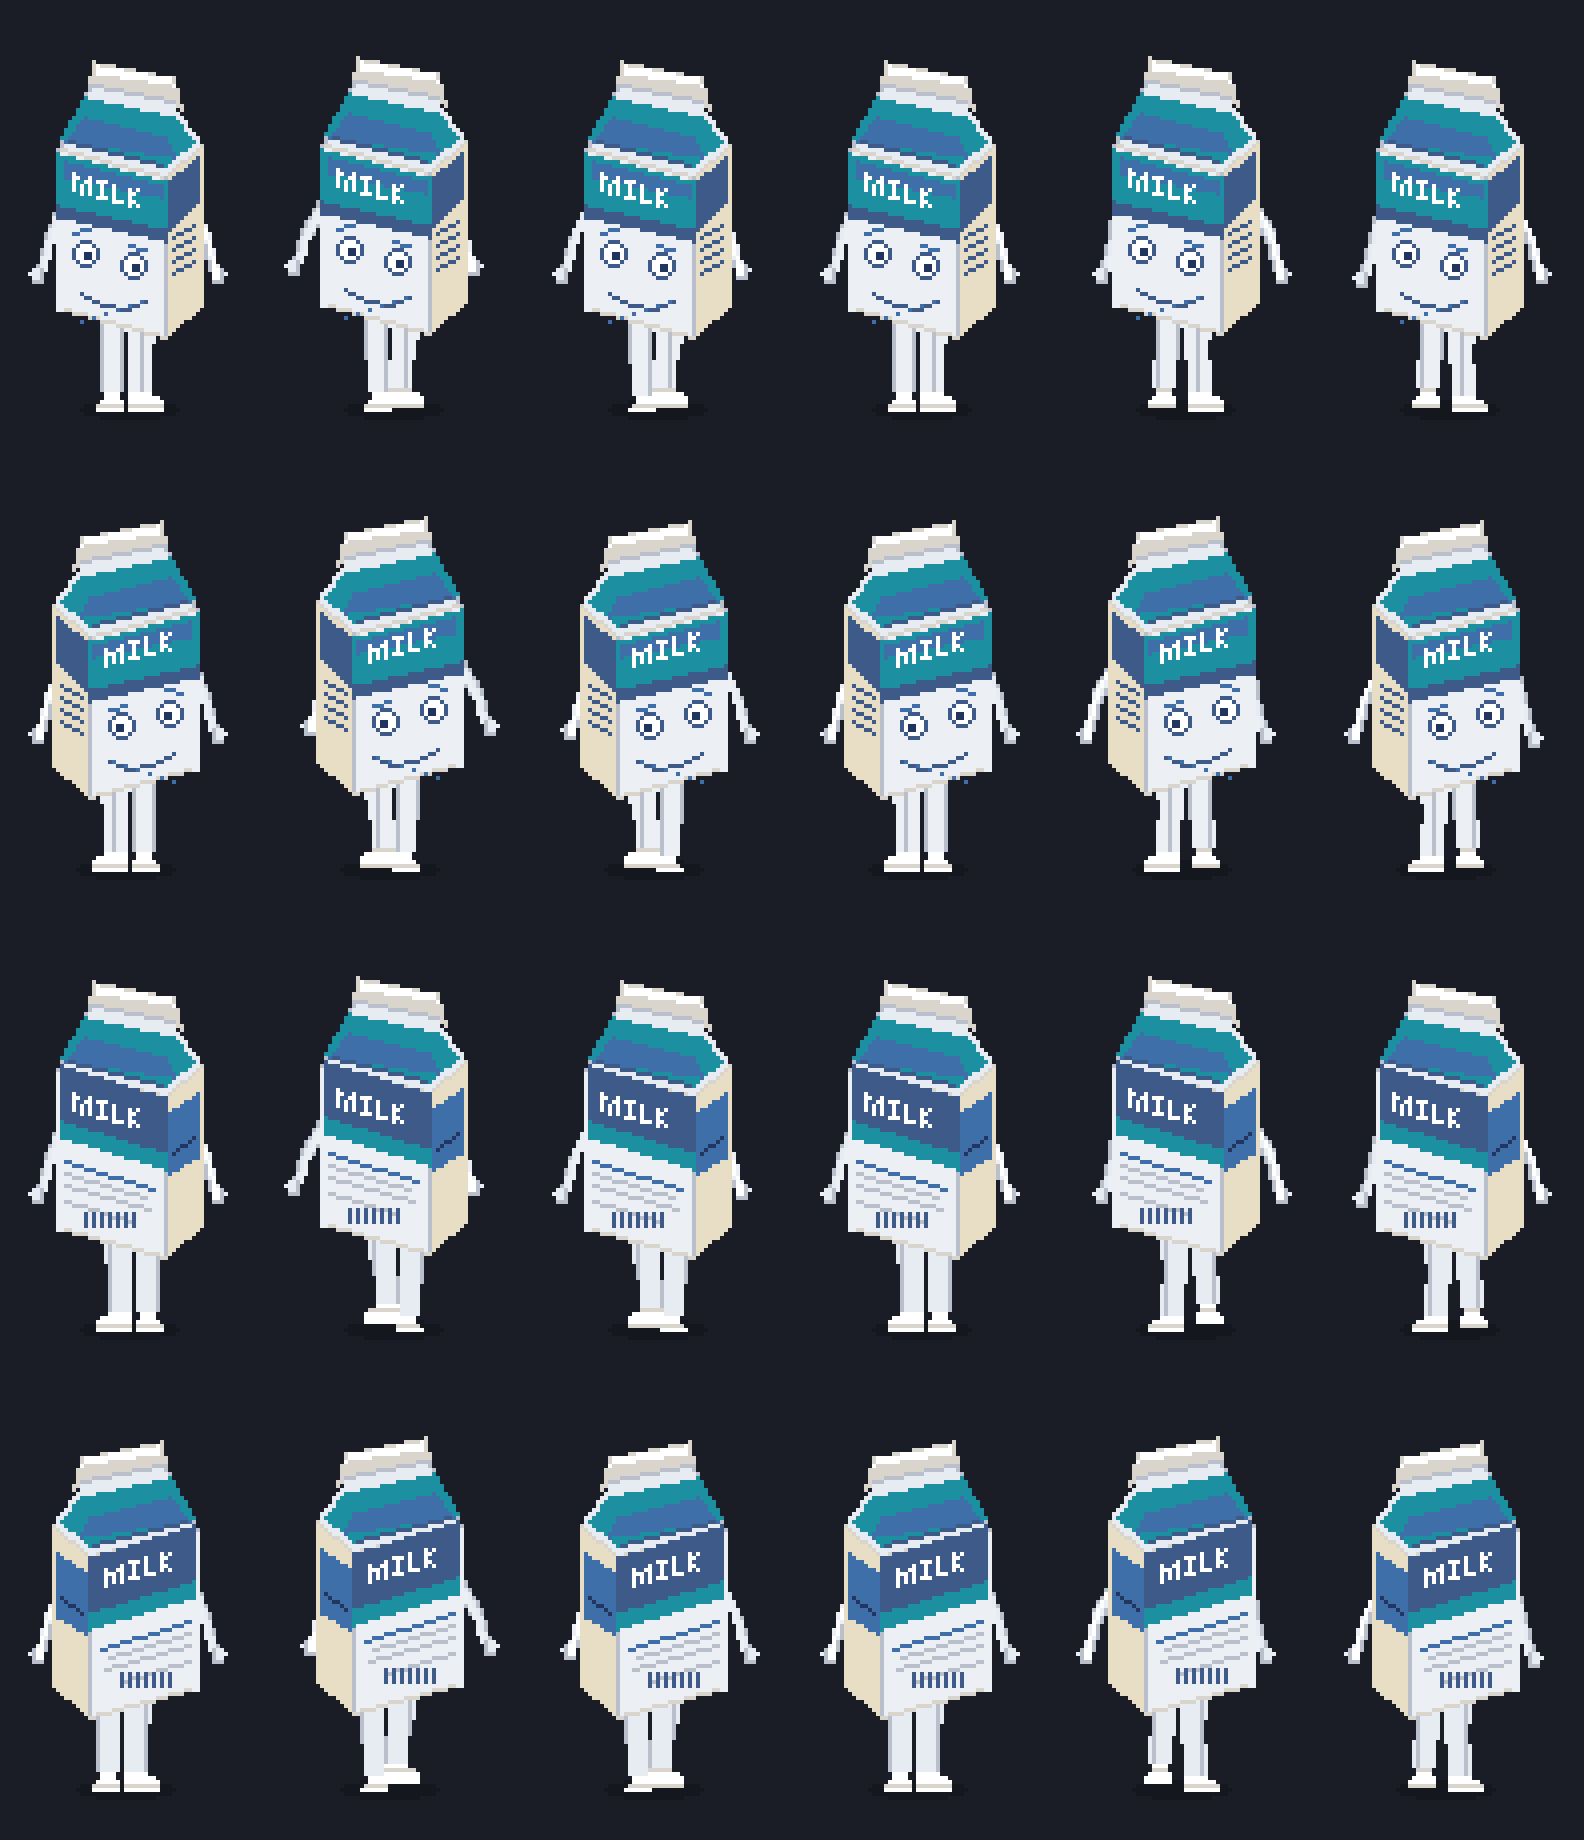
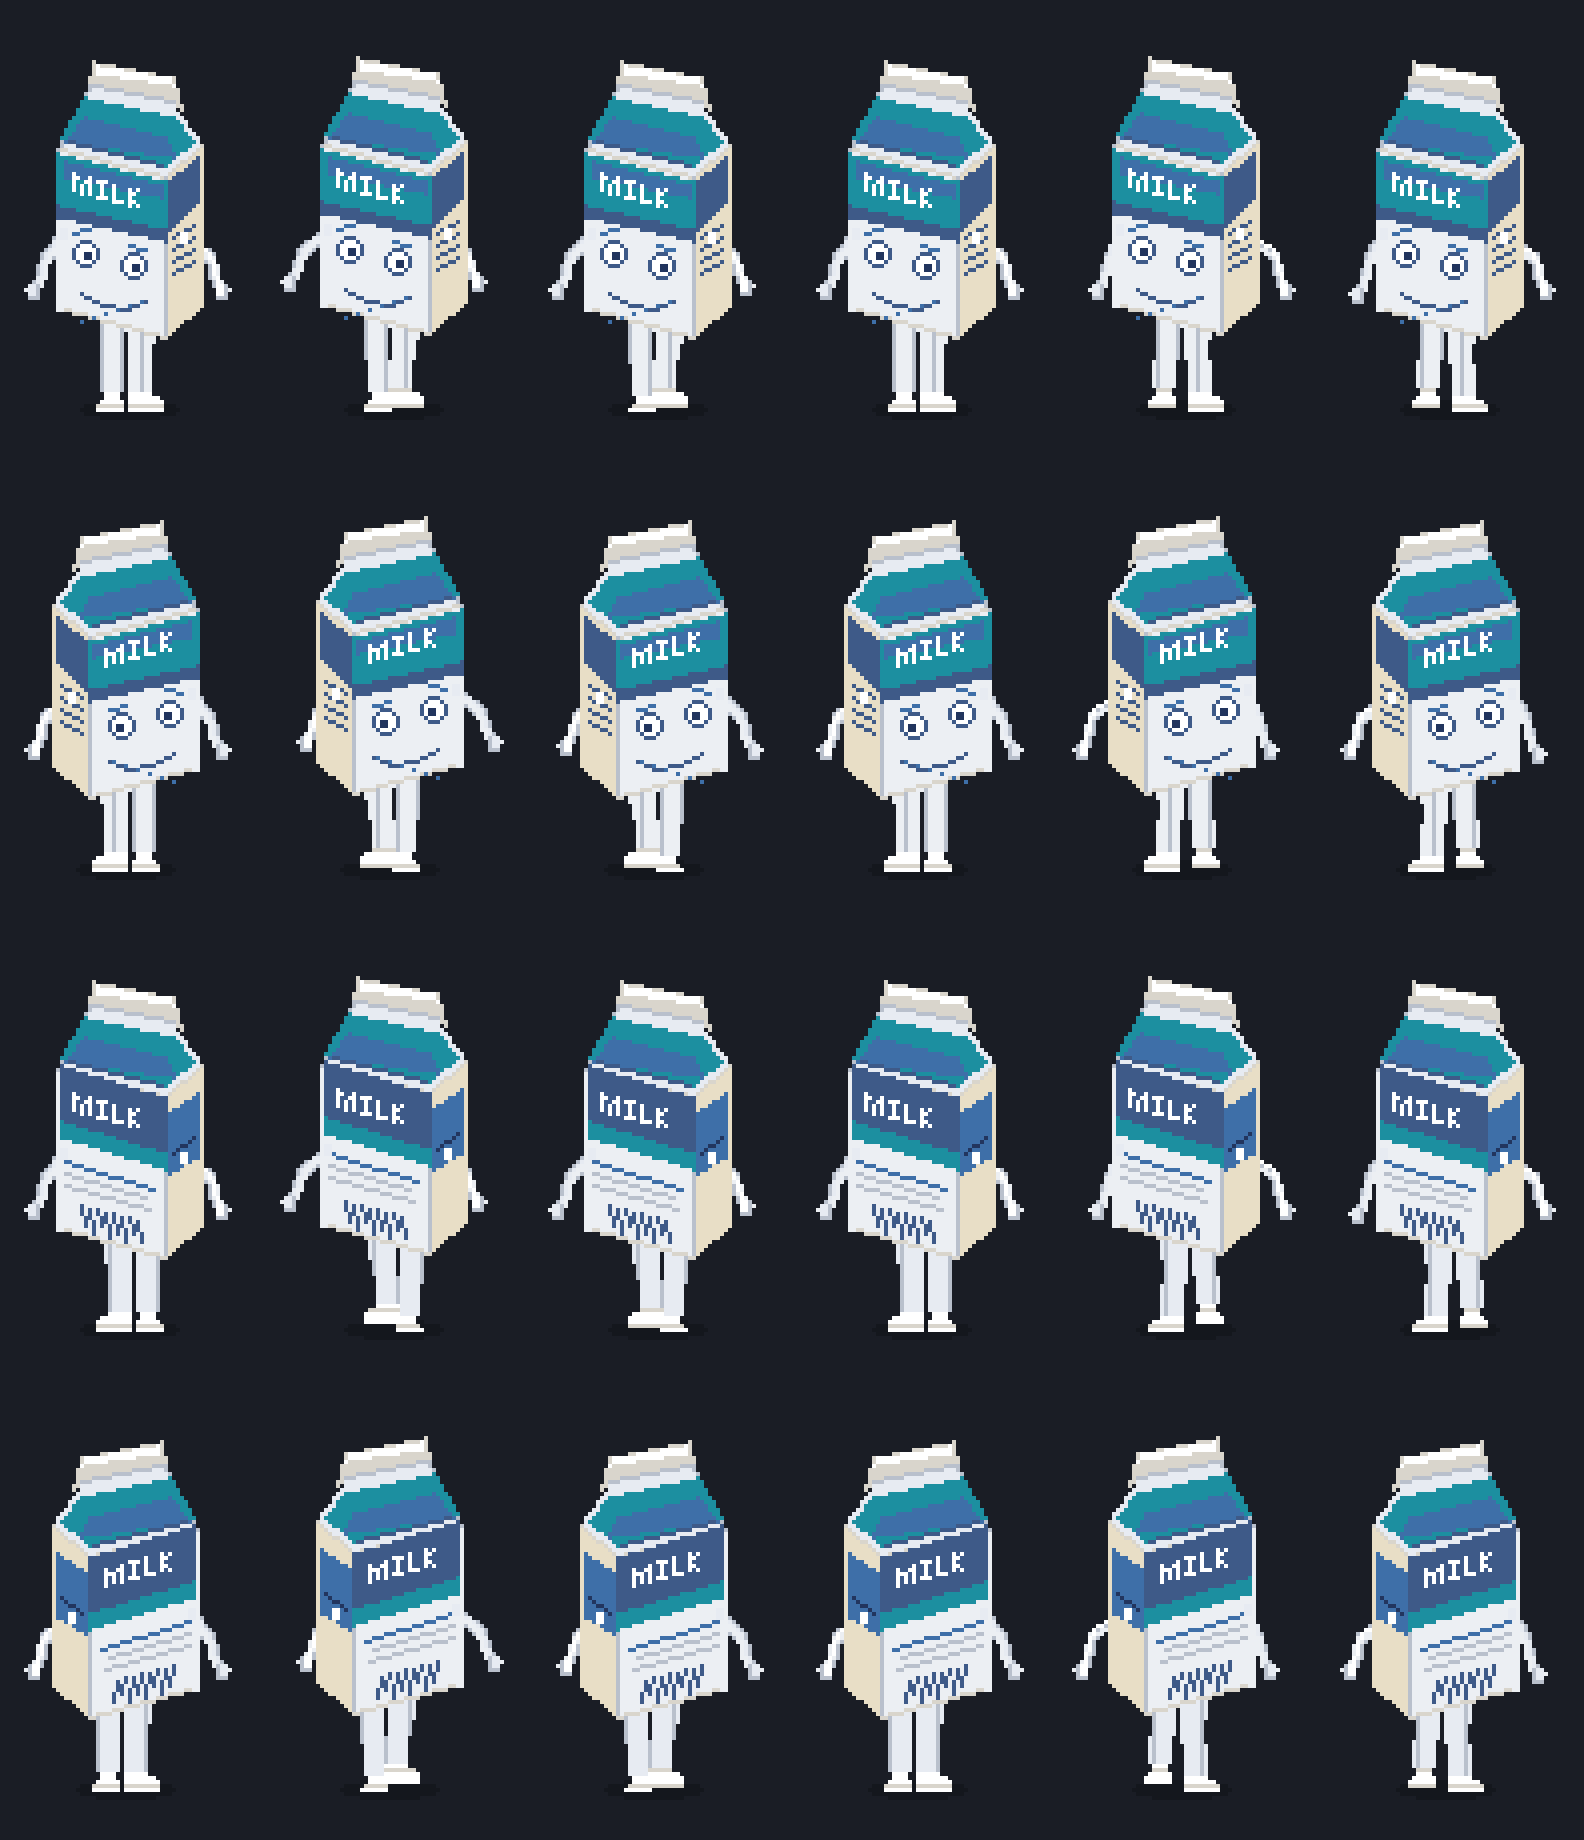
Align Milk Mascot arms to side midpoint and skew rear barcode
Preserve native v6b 4-direction walk and sprite sheet. Move arms to mid-body carton side and draw slender seams; barcode now follows projected panel slope. Verified sprites and previews stored permanently.

diff --git a/assets/npc_milk_mascot/src/make_milk_mascot.py b/assets/npc_milk_mascot/src/make_milk_mascot.py
@@ -102,29 +102,47 @@ def capsule(draw, points, light, mid, shade):
 
 
 def draw_arms(layer, view, t, bob, kind):
+    """Slim human-scale sleeves attached at the SIDE MIDPOINT of carton.
+
+    The broad front is x14..41, narrow side is x41..50. Shoulder anchors
+    sit at y56 (mid-height of the flat carton walls), not on the rear/top
+    fold at y49. The far shoulder is hidden by the box; elbow + hand remain
+    visible, with an explicit 2px side seam applied after compositing.
+    """
     d = ImageDraw.Draw(layer)
-    # Reduced from 6px arm / 7px glove to 3px sleeve / ~4px glove.
-    # Shorter forearms: a simple human-costume silhouette, not oversized mitts.
     swing = [0, 2, 1, 0, -2, -1][t % 6] if kind == "walk" else 0
     for left in (True, False):
         s = swing if left else -swing
         if left:
-            shoulder = (15, 49 + bob)
-            elbow = (12 - s, 57 + bob)
-            wrist = (10 - s, 65 + bob - s // 2)
-            hx, hy = 9 - s, 67 + bob - s // 2
+            shoulder = (16, 56 + bob)
+            elbow = (11 - s, 62 + bob)
+            wrist = (9 - s, 69 + bob - s // 2)
+            hx, hy = (8 - s, 71 + bob - s // 2)
             light = LIT
         else:
-            shoulder = (48, 49 + bob)
-            elbow = (51 + s, 57 + bob)
-            wrist = (53 + s, 65 + bob + s // 2)
-            hx, hy = 54 + s, 67 + bob + s // 2
+            # Midpoint of x41..50 side plane, not the far x50 corner.
+            shoulder = (45, 57 + bob)
+            elbow = (52 + s, 62 + bob)
+            wrist = (54 + s, 69 + bob + s // 2)
+            hx, hy = (55 + s, 71 + bob + s // 2)
             light = WHITE
         capsule(d, [shoulder, elbow, wrist], light, PAPER, GREY)
         d.rectangle((hx - 1, hy - 2, hx + 1, hy + 1), fill=GREY)
         d.rectangle((hx - 1, hy - 2, hx, hy), fill=light)
-        # One-pixel thumb detail; no bulky hand/finger blob.
         d.point((hx - 2 if left else hx + 2, hy - 1), fill=PAPER)
+
+
+def paint_attachments(frame, bob):
+    """Expose narrow sleeve cuffs *on top* of the carton at side midpoints.
+
+    Without this, the carton conceals the arm's first pixels and it looks
+    as if the arms originate on the rear of the box. These 2px seams are
+    only a connection joint, not additional large arms.
+    """
+    d = ImageDraw.Draw(frame)
+    # Near corner on face and midpoint of the narrow right-hand side face.
+    d.line([(15, 55 + bob), (15, 57 + bob)], fill=LIT, width=2)
+    d.line([(45, 56 + bob), (45, 58 + bob)], fill=WHITE, width=2)
 
 def draw_native_legs(layer, rig, base, kind, frame, view):
     C, O = rig
@@ -186,10 +204,16 @@ def draw_carton(layer, rear, bob, expression="neutral", show_label=True):
         line([(16, 58 + bob), (38, 65 + bob)], BLUE, 1)
         line([(16, 61 + bob), (36, 67 + bob)], GREY, 1)
         line([(16, 64 + bob), (37, 70 + bob)], GREY, 1)
-        line([(16, 68 + bob), (33, 73 + bob)], GREY, 1)
-        # Bar code: sparse readable stripes, 1× pixel strokes.
-        for x in range(21, 34, 2):
-            d.line([(x, 71 + bob), (x, 74 + bob)], fill=BLUE_DARK)
+        # Barcode quiet zone deliberately clear of information lines.
+        # The broad back carton face rises 7 px from left to right (27 px).
+        # The base line therefore follows the same isometric shear as MILK.
+        # Each bar is a tiny tilted pixel column, not a flat row of stripes.
+        for i, x in enumerate(range(20, 36, 2)):
+            y_top = 68 + bob + round((x - 16) * 7 / 27)
+            height = (5, 6, 4, 6, 5, 6, 4, 5)[i]
+            d.line([(x, y_top), (x + 1, y_top + height)], fill=BLUE_DARK, width=1)
+            if i in (2, 5):
+                d.point((x + 1, y_top + height - 1), fill=BLUE_DARK)
         if show_label:
             pixel_text_slanted(d, "milk", 18, 41 + bob, WHITE, slope=7/27)
         polygon([(42, 46), (49, 41), (49, 57), (42, 61)], BLUE)
@@ -269,6 +293,7 @@ def render_one(rig, se, ne, anim, t, direction, expression="neutral"):
     carton = Image.new("RGBA", (FW, FH))
     draw_carton(carton, rear, bob, expression, show_label=not mirrored)
     frame.alpha_composite(carton)
+    paint_attachments(frame, bob)
     if mirrored:
         frame = frame.transpose(Image.Transpose.FLIP_LEFT_RIGHT)
         # v6b SW/NW mirror the physical character, but the carton typography
@@ -358,7 +383,7 @@ def build():
       "supported_animated_actions": ["walk", "idle", "talk"],
       "experimental_rows": ["sit", "sit_type", "sleep", "tired", "swim", "float", "lie", "perch"],
       "new_hex": [],
-      "notes": "Pixel-authored milk carton with slimmer sleeves and isometric perspective-aligned MILK label; other non-walk rows use simplified placeholder costume poses."
+      "notes": "Pixel-authored milk carton; sleeves attached at the side-body midpoints; printed MILK label and back barcode follow the isometric carton face; non-walk action rows remain simplified placeholders."
     }
     (FOLDER / "manifest.json").write_text(json.dumps(manifest, indent=2) + "\n", encoding="utf-8")
     print("BUILT", base, "sprites", len(outputs), "walk rows", 4, "frames each", 6)

diff --git a/assets/npc_milk_mascot/README.md b/assets/npc_milk_mascot/README.md
@@ -1,9 +1,9 @@
 # Milk Mascot — v6b stock NPC
 
-A new game-ready **anthropomorphic milk-carton costume** based on the uploaded image, reinterpreted as code-drawn pixel art. This is not a human head with milk-print clothing: the entire head and upper body are hidden inside a 3D gable-top carton. Slim white costume sleeves and small gloves animate around the rigid carton; white trousers and shoes use the native v6b leg rig.
+A new game-ready **anthropomorphic milk-carton costume** based on the uploaded image, reinterpreted as code-drawn pixel art. This is not a human head with milk-print clothing: the entire head and upper body are hidden inside a 3D gable-top carton. Slim white costume sleeves and small gloves now attach at the mid-height of the carton side panels, with visible 2px cuff connections; white trousers and shoes use the native v6b leg rig.
 
 - Front: cream and teal/blue milk branding, simple friendly eyes and smile. The word MILK is projected onto the panel's isometric slope, including the mirrored view.
-- Back: blue label and minimal packaging markings, **no duplicate smile**.
+- Back: blue label and minimal packaging markings, **no duplicate smile**. Barcode is sheared along the 7:27 isometric panel slope, with narrow tilted individual bars instead of flat stripes.
 - Sides/top: angled, readable isometric planes and carton fold.
 - Display text: `milk` made from pixel glyphs (the SW reflection follows v6b direction rules).
 - Movement: native `live_v6b` leg poses + procedural swinging mascot arms.
@@ -29,3 +29,7 @@ Walking, idle, and talk rows share the working carton rig. The remaining v6b ani
 ## Expression previews
 
 The face-expression overlay PNGs are stored beside the base sprite sheet. The Character Stock page composites overlays onto the native idle/SE sprite and shows an expandable **Expression Preview** selector (neutral plus the available expressions); no extra illustration or image-generation process is used.
+
+## Positioning revision
+
+Shoulder anchors now attach around body midpoint on the sides (not on the upper/back corner). Sleeve seams stay visible in front of the carton for a connected costume look. White-glove silhouette and 6-frame four-direction walk are retained.
